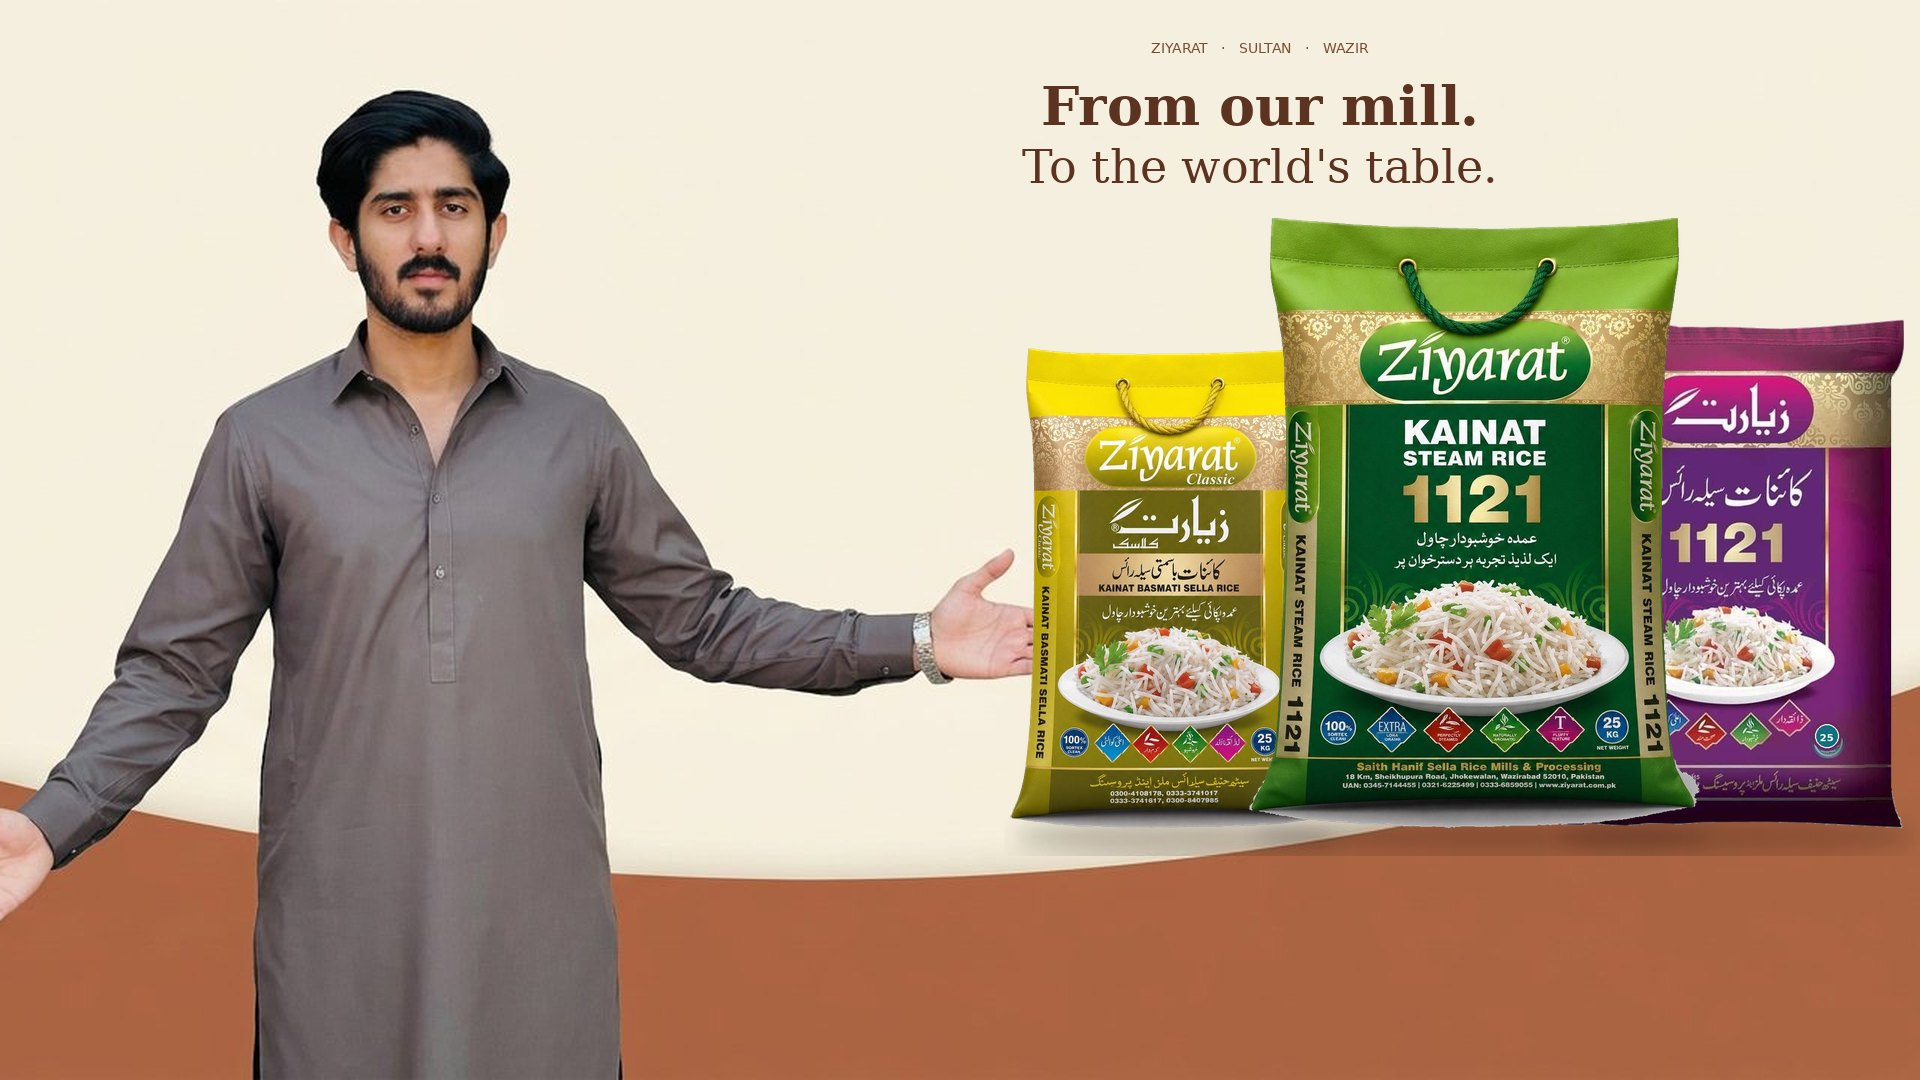
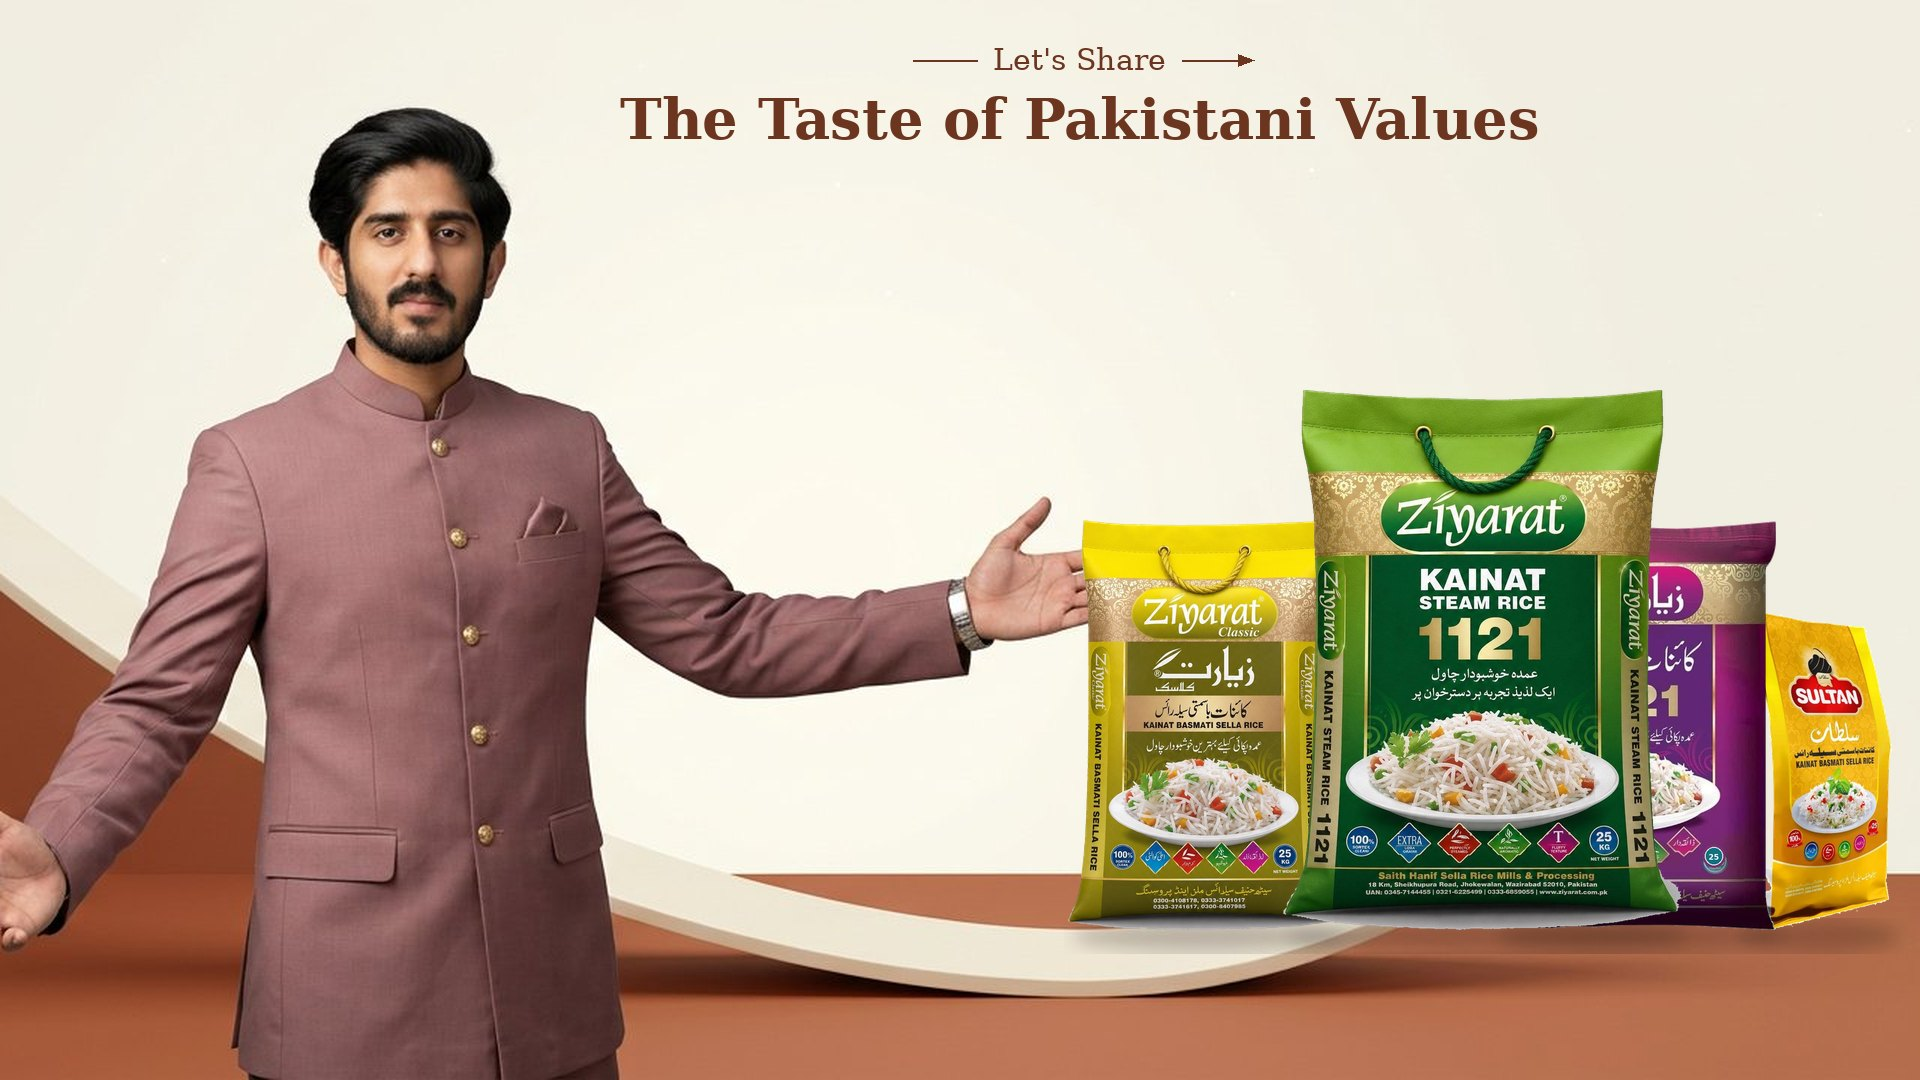
Slide 2: campaign still — Pakistani Values line, mill packs, ambassador pose.
Same layout as the reference branding photo. Person and bags are ours. Headline keeps the original line with Pakistan in place of India.

diff --git a/index.html b/index.html
@@ -75,7 +75,7 @@
         </article>
 
         <article class="slide slide-campaign">
-          <img src="assets/images/hero-slide-packs.jpg?v=7" alt="Saith Hanif Rice Mills — Ziyarat, Sultan and Wazir packs" width="1920" height="1080" loading="lazy" decoding="async">
+          <img src="assets/images/hero-slide-packs.jpg?v=8" alt="Saith Hanif Rice Mills — Let's Share The Taste of Pakistani Values" width="1920" height="1080" loading="lazy" decoding="async">
           <div class="hero-shade"></div>
           <div class="hero-content hero-center">
             <div class="btn-row hero-actions">
